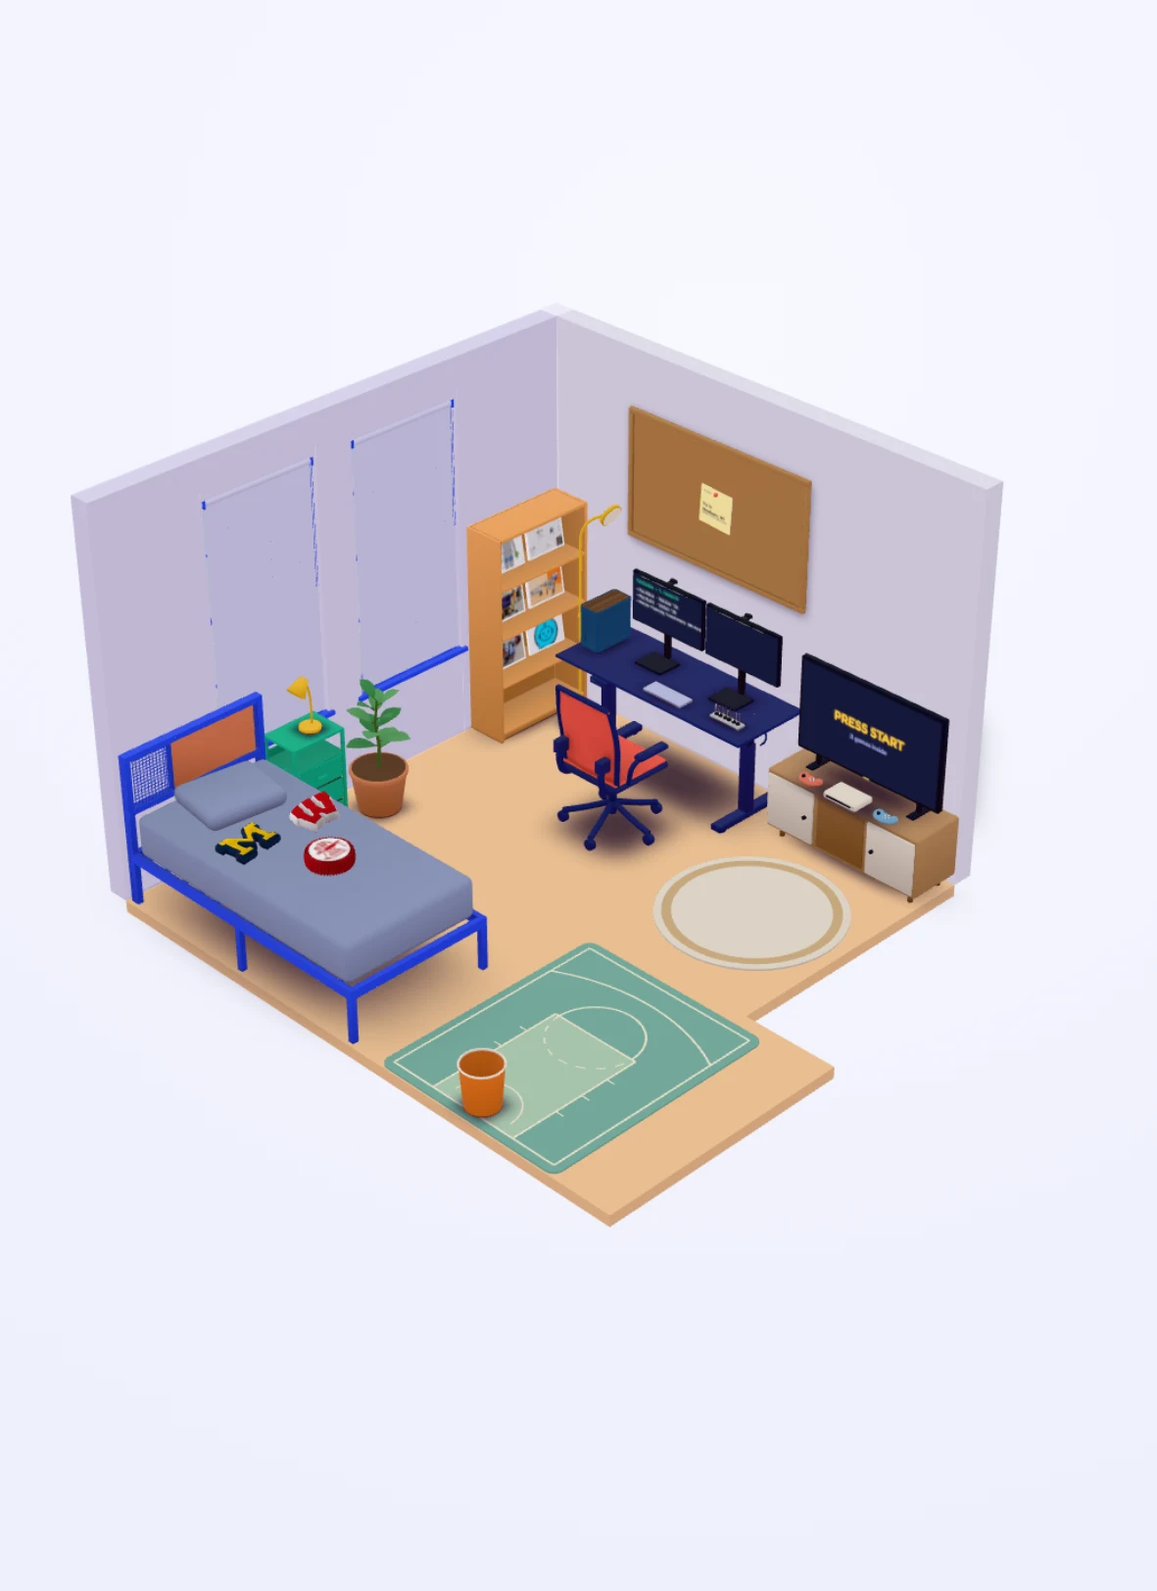
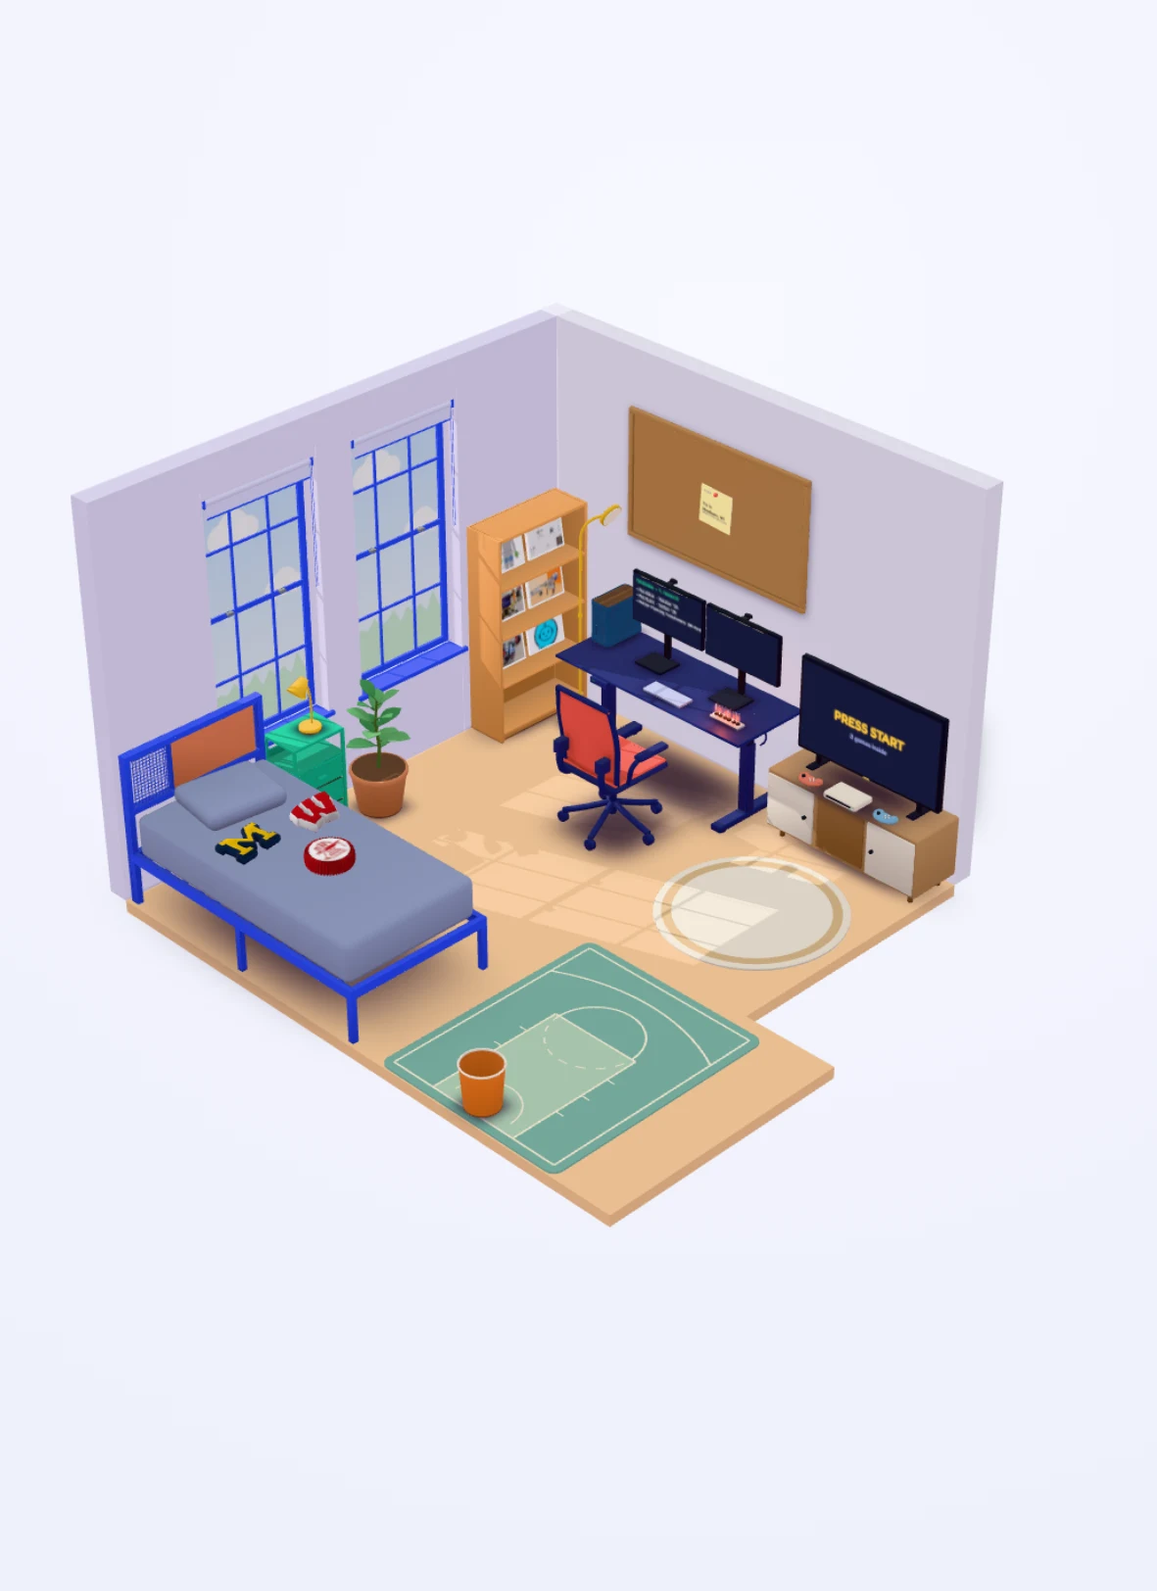
Fix room interior visibility and navigation
Keep walls and ceiling visible from inside the room, repair stale room history after reload, and move the PC closer to the wall. Keep the clock ticking by day, sync blinds with the theme, and update regression checks, posters and project notes.

diff --git a/src/scripts/room.ts b/src/scripts/room.ts
@@ -40,6 +40,7 @@ import {
   Raycaster,
   Scene,
   Shape,
+  ShapeGeometry,
   type Side,
   SphereGeometry,
   SpotLight,
@@ -134,8 +135,8 @@ export async function mountRoom(frame: HTMLElement, opts: RoomOptions) {
   let item = document.documentElement.dataset.item ?? '';
 
   // Walls that face the camera (and what hangs on them) aren't hidden: they swap to this material,
-  // which draws nothing but still casts shadows, so they keep blocking light. The ceiling wears it
-  // for good. Daylight and moonlight then only come in through the windows.
+  // which draws nothing but still casts shadows, so they keep blocking light. The ceiling's
+  // sealing box also uses it. Daylight and moonlight then only come in through the windows.
   const ghostMat = new MeshBasicMaterial({ colorWrite: false, depthWrite: false });
   ghostMat.shadowSide = DoubleSide;
   const ghost = (o: Object3D, on: boolean) =>
@@ -343,7 +344,7 @@ export async function mountRoom(frame: HTMLElement, opts: RoomOptions) {
     seal.raycast = () => {};
     scene.add(seal);
   });
-  // A ceiling that only casts shadows (the dollhouse view never shows it). It sinks 10 cm into the
+  // A ceiling seal that only casts shadows. It sinks 10 cm into the
   // wall tops: where boxes only touch, light leaks through the seam.
   const ceilBox = SHELL.outline.reduce((b, [x, y]) => b.expandByPoint(new Vector2(x, y)), new Box2()).expandByScalar(T);
   const ceiling = new Mesh(new BoxGeometry(ceilBox.max.x - ceilBox.min.x, 0.15, ceilBox.max.y - ceilBox.min.y), ghostMat);
@@ -351,6 +352,18 @@ export async function mountRoom(frame: HTMLElement, opts: RoomOptions) {
   ceiling.castShadow = true;
   ceiling.raycast = () => {};
   scene.add(ceiling);
+  // The real underside is at the same height as the physics ceiling. Preserve the existing shadow
+  // seal for the room's lighting; this liner receives room/ambient light without
+  // receiving the seal's self-shadow, and only appears when the eye is inside the room.
+  const ceilingSurface = new Mesh(
+    new ShapeGeometry(new Shape(SHELL.outline.map(([x, y]) => new Vector2(x, y)))),
+    new MeshStandardMaterial({ color: new Color(SHELL.wall), roughness: 0.9, side: BackSide }),
+  );
+  ceilingSurface.rotation.x = -Math.PI / 2;
+  ceilingSurface.position.y = H;
+  ceilingSurface.visible = false;
+  ceilingSurface.raycast = () => {};
+  scene.add(ceilingSurface);
 
   // --- furniture
   const placed: Record<string, Object3D> = {};
@@ -449,7 +462,8 @@ export async function mountRoom(frame: HTMLElement, opts: RoomOptions) {
     }
   }
 
-  // Blinds: in full-screen mode a click on a window rolls its blind up or down. The asset has the
+  // Blinds: up by day, down at night (they follow the theme switch); in full-screen mode a click on a
+  // window rolls its blind up or down until the next switch. The asset has the
   // cloth (`blind_cloth`, origin on the roller) and the bottom bar (`blind_bar`) as their own nodes;
   // the cloth scales toward the roller and the bar follows its bottom edge.
   type Blind = { win: Object3D; cloth: Object3D; bar?: Object3D; len: number; barY: number; k: number; t: number };
@@ -921,7 +935,8 @@ export async function mountRoom(frame: HTMLElement, opts: RoomOptions) {
             m.position.z = m.userData.z + depthOf(d);
           });
         }
-        const k = level * (opts.reduceMotion ? 1 : 0.96 + 0.04 * Math.sin(now * 0.031) * Math.sin(now * 0.017));
+        // The tubes flicker a little at night; by day they hold steady, so the room redraws only on each tick.
+        const k = level * (opts.reduceMotion || theme !== 'dark' ? 1 : 0.96 + 0.04 * Math.sin(now * 0.031) * Math.sin(now * 0.017));
         lits.forEach((m) => (m.material as MeshBasicMaterial).color.setScalar(k));
         bloomMat.opacity = 0.75 * k;
         glowU.value = k;
@@ -1459,7 +1474,9 @@ uniform float uStripEnd;
   })();
 
   let theme = opts.theme;
-  const sw = Object.fromEntries(Object.keys(SWITCH_ON).map((k) => [k, theme === 'dark'])) as Record<Switch, boolean>;
+  // Lights come on with the dark theme; the nixie clock is on in both (it's a clock, not a lamp).
+  const onFor = (k: Switch, t: 'light' | 'dark') => k === 'clock' || t === 'dark';
+  const sw = Object.fromEntries(Object.keys(SWITCH_ON).map((k) => [k, onFor(k as Switch, theme)])) as Record<Switch, boolean>;
   const levels = () => ({
     ...LEVELS[theme],
     ...(Object.fromEntries(Object.entries(SWITCH_ON).map(([k, v]) => [k, sw[k as Switch] ? v : 0])) as Record<Switch, number>),
@@ -1476,7 +1493,8 @@ uniform float uStripEnd;
   };
   const setTheme = (t: 'light' | 'dark') => {
     theme = t;
-    for (const k of Object.keys(sw) as Switch[]) sw[k] = t === 'dark';
+    for (const k of Object.keys(sw) as Switch[]) sw[k] = onFor(k, t);
+    for (const b of blinds) b.t = t === 'dark' ? 1 : 0.06;
     target = levels();
     fading = true;
     hemi.color.set(t === 'dark' ? 0x7d84ff : 0xffffff);
@@ -1492,6 +1510,12 @@ uniform float uStripEnd;
   };
   setTheme(opts.theme);
   cur = { ...target };
+  // The first theme sets the blinds where they are, without rolling them on load.
+  for (const b of blinds) {
+    b.k = b.t;
+    b.cloth.scale.y = b.k;
+    if (b.bar) b.bar.position.y = b.barY + (1 - b.k) * b.len;
+  }
 
   // --- full-screen orbit mode
   let full = false;
@@ -2178,6 +2202,16 @@ uniform float uStripEnd;
   // Keep drawing for ~2 s after mount: frames drawn while the canvas is still fading in from
   // opacity 0 may never be presented, which would leave the panel blank until the next move.
   let warmup = 120;
+  const cameraInsideRoom = () => {
+    if (!full || cam.position.y <= 0 || cam.position.y >= H) return false;
+    const x = cam.position.x, y = -cam.position.z, outline = SHELL.outline;
+    let inside = false;
+    for (let i = 0, j = outline.length - 1; i < outline.length; j = i++) {
+      const [xi, yi] = outline[i], [xj, yj] = outline[j];
+      if ((yi > y) !== (yj > y) && x < (xj - xi) * (y - yi) / (yj - yi) + xi) inside = !inside;
+    }
+    return inside;
+  };
   // Draw one frame: lights, dollhouse walls, the scene, and the label positions.
   const draw = () => {
     dirty = false;
@@ -2200,13 +2234,16 @@ uniform float uStripEnd;
     ambL.intensity = cur.amb * b * 2.4;
     nixie?.update(cur.clock, performance.now());
     skyNight.opacity = cur.night;
-    // Hide whichever walls face the camera (dollhouse view).
+    // Cut away near walls only in the dollhouse view. From inside, even a side wall can be
+    // visible at the edge of a wide lens; hiding it exposes the page background as a dark band.
+    const interior = cameraInsideRoom();
+    ceilingSurface.visible = interior;
     v.copy(cam.position).sub(full && controls.enabled ? controls.target : camT);
     vp.set(v.x, -v.z);
-    const wallOn = wallSets.map((w) => vp.dot(w.n) > -0.4 && (!w.also || vp.dot(w.also) > -0.4));
+    const wallOn = wallSets.map((w) => interior || (vp.dot(w.n) > -0.4 && (!w.also || vp.dot(w.also) > -0.4)));
     wallSets.forEach((w, i) => w.objs.forEach((o) => ghost(o, !wallOn[i])));
     posts.forEach((p) => ghost(p.m, !(wallOn[p.a] && wallOn[p.b])));
-    onWall.forEach((w) => ghost(w.o, vp.dot(w.n) <= -0.4));
+    onWall.forEach((w) => ghost(w.o, !interior && vp.dot(w.n) <= -0.4));
     renderer.render(scene, cam);
     if (full) {
       const w = canvas.clientWidth, h = canvas.clientHeight;
@@ -2219,7 +2256,7 @@ uniform float uStripEnd;
       });
     }
   };
-  let lastNow = 0, lastAmbient = 0, lastVideo = 0;
+  let lastNow = 0, lastAmbient = 0, lastVideo = 0, lastTick = 0;
   const loop = (now: number) => {
     requestAnimationFrame(loop);
     syncVideos();
@@ -2265,8 +2302,14 @@ uniform float uStripEnd;
     if (stepCards(dt)) dirty = true;
     if (hoops?.step(dt)) dirty = true;
     lastNow = now;
-    // The ambilight breathes and the clock ticks: redraw at ~30 fps while they're on.
-    if ((cur.amb > 0.002 && !opts.reduceMotion) || cur.clock > 0.02) {
+    // The ambilight breathes and the night clock flickers: redraw at ~30 fps while they're on. By day
+    // the clock only needs a redraw when its seconds change.
+    const sec = Math.floor(Date.now() / 1000);
+    if (cur.clock > 0.02 && sec !== lastTick) {
+      lastTick = sec;
+      dirty = true;
+    }
+    if ((cur.amb > 0.002 && !opts.reduceMotion) || (cur.clock > 0.02 && theme === 'dark' && !opts.reduceMotion)) {
       if (now - lastAmbient > 33) {
         lastAmbient = now;
         dirty = true;

diff --git a/src/scripts/room.config.ts b/src/scripts/room.config.ts
@@ -107,8 +107,8 @@ export const PLACEMENTS: Placement[] = [
   { id: 'barR', asset: 'screenbar', at: [1.82, 3.528], z: 1.2826, on: 'monitorR' },
   { id: 'keyboard', asset: 'keyboard', at: [1.5, 3.19], z: 0.74, colors: { metal: '#c8cdf0' } },
   { id: 'chair', asset: 'chair', at: [1.506, 2.7], yaw: 180, colors: { fabric: '#ff6b5e', frame: NAVY } },
-  // Fractal Design Era ITX (cobalt, walnut top) on the desk's left end, front toward the room.
-  { id: 'pc', asset: 'pc_era', at: [0.745, 3.4], z: 0.74 },
+  // Fractal Design Era ITX on the desk's left end, front toward the room, rear ~3.8 cm off the wall.
+  { id: 'pc', asset: 'pc_era', at: [0.745, 3.5], z: 0.74 },
   // Nixie clock (Madison time): the monitors leave no gap between them, so it stands right of the keyboard.
   { id: 'clock', asset: 'nixie', at: [1.98, 3.22], z: 0.74 },
   { id: 'pinboard', asset: 'pinboard', at: [1.42, 3.7], z: 1.4, colors: { wood: '#c4925e' }, section: 'playground' },

diff --git a/AGENTS.md b/AGENTS.md
@@ -44,6 +44,7 @@
 - 桌面（≥901px）：左侧固定房间占 42%，右侧页面滚动；移动端以页面为主，通过卡片按需打开全屏房间。
 - 滚动决定区块与相机镜头，视口中间的条目决定屏幕或物件内容；hover/focus 临时切换条目，不能移动相机。
 - 三层视图：页面 → `#room` 全屏房间 → `#room/board` 或 `#room/hoops` 特写。Esc、返回按钮和浏览器返回逐层退出。`RoomPanel.astro` 管理视图、history 和展开收起动画；`room.ts` 管理相机与场景交互；新增特写由 `room.config.ts` 的 `CLOSEUPS` 配置。`section` 可选，没有页面区块的 hoops 不显示“on the page”按钮。
+- 刷新会保留浏览器旧的 `history.state`，但面板从页面层重新初始化。新开房间时先把残留的房间记录替换为页面记录，再压入新的 `#room`；否则点击显示器/书架/电视返回页面时，会后退到旧投篮记录并自动重开投篮。浏览器回归包含旧房间/投篮记录刷新后进入三个区块的检查。
 - board 特写可拖动卡片；点击卡片退出房间并定位到页面对应卡片。页面与房间通过 `sectionchange`、`itemchange`、`themechange`、`roomlevel`、`pinchange` 等事件同步。
 - Research 对应桌面双显示器；Projects 对应书架上的项目封面相框；Games 对应电视、游戏盒；Playground 对应软木板。门当前只是场景，不代表已启用的 Say hi。
 - 已实现：可开合百叶窗、可切换灯具/电视氛围光/辉光管时钟、旋转椅子、植物摆动；床上枕头和三所学校的玩偶可拖拽、投掷、碰撞。投篮特写自动轮换纸团、瓶子、弹力球，以洗牌的 24 个机位改变实际出手位置和相机（约 0.59–3.55 m，含近框、两侧底线、六个床上位置、四个新增超远三分和五个低机位），无需手选物品。桶位于平面 (3, 0.15) m，桶后距墙约 1.25 cm；篮板小框下沿对齐桶口。球场地毯为 1.40 × 1.68 m，避开床，推车摆放已隐藏但资源保留，桶底和碰撞面与地毯高度一致。三分线半径 1.32 m，与计分判断一致。
@@ -62,9 +63,10 @@
 - 展开收起使用 Web Animations；验证动画需实时浏览器/CDP，不能只靠 Chrome `--virtual-time-budget`。
 - 当前布局为 PLAN 中的 Layout B，使用 `bed_single`；旧镜子、Layout A 和双人床不能当成当前布局。
 - 静态 HTML 优先，桌面空闲时加载 Three.js，移动端进入房间才加载；无 WebGL 保留 poster。尊重 reduced-motion，不让学术页面依赖动画。
-- 渲染按需进行，画面不可见或标签页隐藏时停止绘制；氛围光与时钟开启时会周期重绘。床上玩具物理首次进入全屏才加载，投篮首次进入 hoops 才加载，物体静止后休眠。
+- 渲染按需进行，画面不可见或标签页隐藏时停止绘制。时钟日夜默认开启；白天仅在秒数变化时重绘，空闲基线约为 2 frames / 2 s，手动关闭时钟且无其他动态源时才为零绘制。夜间时钟闪烁及氛围光开启时约 30 fps 重绘。床上玩具物理首次进入全屏才加载，投篮首次进入 hoops 才加载，物体静止后休眠。
 - 论文/游戏视频只在页面侧栏播放，进入全屏及任何特写暂停，回到页面恢复；不可见或隐藏标签页也暂停。视频帧回调触发重绘，不支持回调时降为约 30 fps，不能再用“有视频未暂停就每帧 dirty”的逻辑。暂停造成的 `play()` AbortError 和过期请求不能覆盖当前画面。
-- 光照：Neutral tone mapping、房间配色的环境反射、按角色的表面质感、资源 baked AO；隐藏的墙仍遮光，天花板只投影，日/月光从窗户进入。床上可移动玩具不保留固定接触阴影；软木板用绘制的柔和墙面阴影。
+- 光照：Neutral tone mapping、房间配色的环境反射、按角色的表面质感、资源 baked AO；隐藏的墙仍遮光，天花板保留永久遮光层；室内视角另显示与物理高度一致的 2.7 m 顶面，总览继续敞顶，日/月光从窗户进入。床上可移动玩具不保留固定接触阴影；软木板用绘制的柔和墙面阴影。
+- 切墙只用于页面/室外总览。全屏相机位于房间平面轮廓内且高度在 0–2.7 m 内时，墙、墙柱、门窗和天花板内表面完整显示；天花板面沿实际 L 形轮廓，保留原遮光封口，顶面不接收该封口的自遮挡阴影。不能继续按视线方向隐藏墙面，否则宽视角会露出页面背景，在夜间形成黑带。判断须使用实际 L 形轮廓，不能只用外接矩形。
 - 书架每层暖色灯带用 shader 线光实现，随深色主题开启；不要改回聚光灯光斑或无必要增加 RectAreaLight 体积。显示器灯条也随主题，不提供独立开关。
 - PLAN 的目标预算：GLB 总计约 ≤3 MB，房间 JS ≤200 KB gzip；不加后处理。Lighthouse 目标桌面 ≥90、移动 ≥80、可访问性 ≥95，目标不等于已测结果。
 
@@ -83,7 +85,7 @@
 - 类型检查用 `npm run check` 或 `npx astro check`。`tsconfig.json` 已限于 `.astro/types.d.ts`、`src/**/*`、`astro.config.mjs`，不再扫描旧 Jekyll 依赖或本地 worktree；旧缓存、依赖、日志、`.claude/` 由 `.gitignore` 忽略，保留在磁盘。
 - 浏览器回归：先 `npm run build`，启动 Astro preview，再运行 `URL=http://127.0.0.1:<端口> npm run check:room`；`CHROME` 可指定 Chrome，`VIDEO_FALLBACK=1` 验证无视频帧回调路径。脚本使用独立临时浏览器配置，不修改日常浏览器。
 - `npm run check:hoops` 使用实际 GLB 和 cannon-es、模拟指针输入与时间，验证 24 机位 × 三种物品共 72 种实际进球、两/三分打板识别与文案、特效、自动轮换、固定出手投影、碰撞结束（含未落地的椅子碰撞）、完整结果停留、描边只在待投时显示、引导与真实轨迹一致、力度与方向解耦、取消输入及休眠；不需要 GPU 或真实等待。
-- `bin/check-room.mjs` 在 SwiftShader 下计数房间 canvas 的 WebGL clear：视频在页面播放并在退出房间后恢复，全屏/board/hoops 稳定后接近零绘制，三种投掷物投出会重绘、落稳后停止。测量前须等待相机、物理及初始 120 帧预热结束；一次 render 可能有多个 clear。
-- 2026-10-22 验证：`npx astro check` 的 25 个文件为 0 errors、0 warnings、0 hints；正常视频帧回调与 30 fps 兼容路径均通过浏览器回归。白天模式下，全屏、board、hoops 空闲时均为 0 clear / 2 s；三种投掷物落稳后也是 0 / 2 s。夜间时钟和氛围灯仍可正常驱动重绘。
-- 2026-10-24：类型检查、构建、带床碰撞的 72 种“机位 × 物品”实际物理进球测试和 Chrome 回归通过。白天投篮特写及投掷物落稳后为 0 clear / 2 s，页面视频正常恢复；已检查 24 个机位及桌面/手机取景，描边待投状态和投篮落稳后为 0 clear / 2 s；回归还核对各机位的桶口在竖屏内、待投物不与家具重叠、结果动画不被切断。资源和脚本大小随资源再生成而变化，发布前重新核对 manifest 与 200 KB gzip 预算。新日夜 poster 和 OG 已重绘。
+- `bin/check-room.mjs` 在 SwiftShader 下计数房间 canvas 未绑定 framebuffer 时的 WebGL clear，报告 room frames，排除阴影贴图 pass：视频在页面播放并在退出房间后恢复，白天全屏/board/hoops 稳定后仅保留时钟的 1 Hz 重绘，三种投掷物投出会额外重绘、落稳后恢复该基线。测量前须等待相机、物理及初始 120 帧预热结束；空闲断言容许最多 3 frames / 2 s 的计时边界余量，不能再要求默认零绘制。
+- 2026-10-22 验证：`npx astro check` 的 25 个文件为 0 errors、0 warnings、0 hints；正常视频帧回调与 30 fps 兼容路径均通过浏览器回归。当时白天时钟默认关闭，全屏、board、hoops 空闲及三种投掷物落稳后的 0 clear / 2 s 是旧实现的历史结果，不能作为当前默认基线。夜间时钟和氛围灯可正常驱动重绘。
+- 2026-10-24：类型检查、构建、带床碰撞的 72 种“机位 × 物品”实际物理进球测试和 Chrome 回归通过，页面视频正常恢复；已检查 24 个机位及桌面/手机取景，当前白天描边待投及投篮落稳后的空闲基线约为 2 frames / 2 s（时钟每秒更新一次）；回归还核对各机位的桶口在竖屏内、待投物不与家具重叠、结果动画不被切断。资源和脚本大小随资源再生成而变化，发布前重新核对 manifest 与 200 KB gzip 预算。新日夜 poster 和 OG 已重绘。
 - Lighthouse 指标仍是目标，未完成实测；Vite 的大 chunk 提示不能当作类型错误，也不能忽略总加载体积。

diff --git a/redesign/PLAN.md b/redesign/PLAN.md
@@ -41,6 +41,8 @@ Personal academic homepage built with **Astro**, with a clay-style 3D model of m
 
 Not wanted: chat-style home page, room-only navigation, heavy real-time scenes.
 
+Room history: after a reload the panel starts at page level, even if the browser retains an old room state. A fresh room opening replaces that stale entry with the page before pushing its new room entry, so choosing a section cannot pop into and reopen a previous close-up.
+
 ### Section → object
 | Section | Object | Room shows |
 |---|---|---|
@@ -58,7 +60,8 @@ Clips: any resolution; trim to ≤ ~1 MB muted mp4 under `public/assets/video/`.
 ### Performance budget
 - Text first: static HTML, LCP never waits for 3D. three.js loads on idle on desktop, on demand on mobile.
 - No post-processing. Physics only for the toys on the bed (the pillow and the UMich M / UW W / SJTU gear plushes: pick up, throw, knock into each other) and the hoops game: cannon-es in its own chunk (~24 KB gzip), loaded when the full-screen room first opens, bodies sleep when settled. The hoops game has its own world: static floor, walls, bed and a ring of 14 boxes for the bin, fixed 1/120 s steps, stepping only while a throw is awake. Real-time light (hemisphere + one shadowed sun/moon + night lamps); per-asset baked AO only. Render on demand; stop when off-screen or the tab is hidden.
-- Light only comes in through the windows: walls (also the ones hidden in the dollhouse view), a shadow-only ceiling and closed blinds cast shadows, so sun patches show only with a blind up. The floor lamp, bedside lamp and the two monitor light bars cast shadows too; the light bars follow the theme, no switch (2026-10-22). The shelf has a warm LED strip under every board: a line light written into the shelf's and walls' shaders (RectAreaLight would cost ~110 KB), so it lights each tier as an even band; on at night like the light bars.
+- Light only comes in through the windows: walls (also the ones hidden in the dollhouse view), a permanent shadow-only ceiling seal and closed blinds cast shadows, so sun patches show only with a blind up. The floor lamp, bedside lamp and the two monitor light bars cast shadows too; the light bars follow the theme, no switch (2026-10-22). The shelf has a warm LED strip under every board: a line light written into the shelf's and walls' shaders (RectAreaLight would cost ~110 KB), so it lights each tier as an even band; on at night like the light bars.
+- Wall cutaways apply to the page/outside overview. In a full-screen interior view (eye inside the L-shaped footprint and below the ceiling), keep every wall, corner post and wall-mounted object visible, plus a lit L-shaped ceiling underside at the physical 2.7 m height. Its permanent shadow seal is unchanged; the visible liner does not receive the seal’s self-shadow. The outside overview stays open-topped. Direction-based cutaways can otherwise expose the page background as black vertical bands beside the doors in wide/night views.
 - Screen clips play in the page panel, redraw on decoded video frames (30 fps fallback), and pause in the full-screen room and every close-up. They resume on return to the page; hidden/off-screen panels also pause decoding. A paused clip alone must not keep the room rendering.
 - All 3D assets ≤ ~3 MB (now 1.52 MiB, meshopt), room JS ≤ 200 KB gzip. Poster image fallback without WebGL or with reduced motion.
 - Lighthouse home page: Performance ≥ 90 desktop / ≥ 80 mobile, Accessibility ≥ 95.
